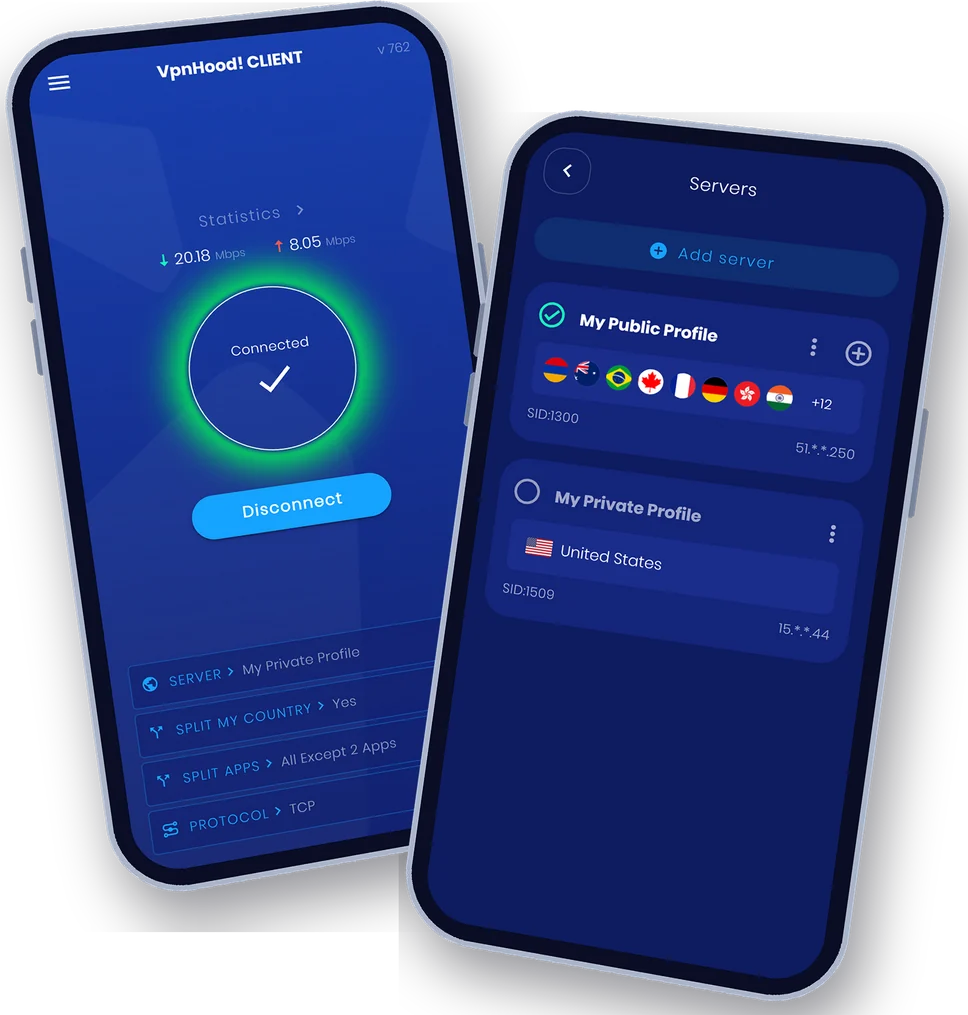
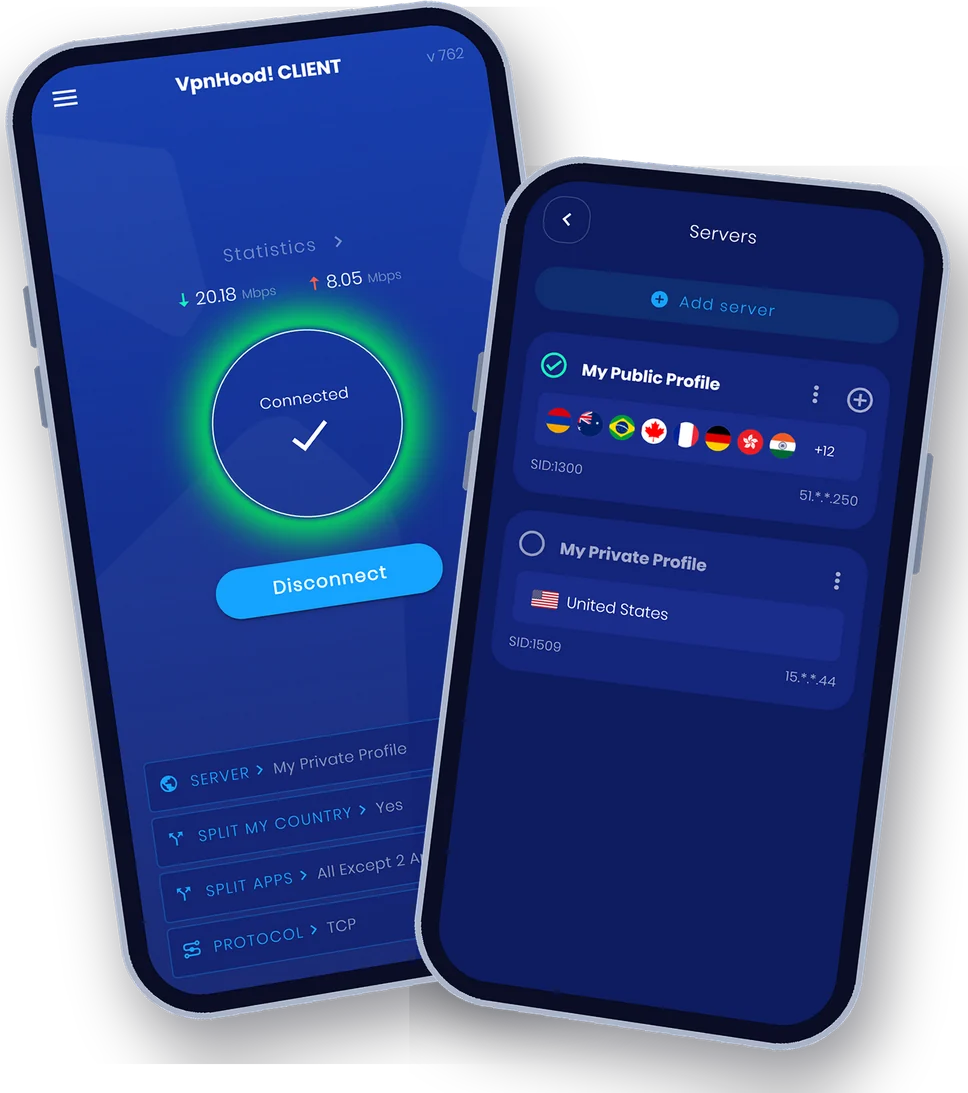
refactor: update Open Graph and hreflang settings, improve localization metadata

Changed region(s): [[0.0, 0.0, 0.9917, 1.0]]

diff --git a/_includes/header.html b/_includes/header.html
@@ -74,11 +74,25 @@
     {% comment %} Per-language pages are generated into site.pages at build time
          by _plugins/i18n-pages.rb (one clone per _data/i18n/<code>/ folder). {% endcomment %}
     {% assign vh_lang_pages = site.pages %}
-    {% capture vh_alternates %}{% for vh_p in vh_lang_pages %}{% if vh_p.lang %}{% capture vh_p_prefix %}/{{ vh_p.lang }}{% endcapture %}{% assign vh_p_base = vh_p.url | remove_first: vh_p_prefix %}{% if vh_p_base == vh_base_url %}
+    {% assign vh_locales = '' %}
+    {% capture vh_alternates %}{% for vh_p in vh_lang_pages %}{% if vh_p.lang %}{% capture vh_p_prefix %}/{{ vh_p.lang }}{% endcapture %}{% assign vh_p_base = vh_p.url | remove_first: vh_p_prefix %}{% if vh_p_base == vh_base_url %}{% assign vh_locales = vh_locales | append: vh_p.lang | append: ',' %}
     <link rel="alternate" hreflang="{{ vh_p.lang }}" href="{{ vh_p.url | absolute_url }}" />{% endif %}{% endif %}{% endfor %}{% endcapture %}
     {% if vh_alternates != "" %}
     <link rel="alternate" hreflang="en" href="{{ vh_base_url | absolute_url }}" />{{ vh_alternates }}
     <link rel="alternate" hreflang="x-default" href="{{ vh_base_url | absolute_url }}" />
+
+    {% comment %} og:locale:alternate — the Open Graph counterpart of the hreflang set:
+         it tells social/link-preview crawlers that this page exists in other languages.
+         seo-tag emits og:locale for THIS page only and has no notion of siblings, so the
+         alternates are emitted here (og:locale itself is still seo-tag's — never duplicate
+         it). Values mirror what seo-tag emits per page — the bare page.lang for a
+         generated page, site.lang for the English source — so the document is internally
+         consistent. The current page's own locale is excluded, per the OG spec. {% endcomment %}
+    {%- assign vh_site_locale = site.lang | default: 'en_US' | replace: '-', '_' -%}
+    {%- assign vh_this_locale = page.lang | default: vh_site_locale -%}
+    {%- assign vh_locale_list = vh_locales | append: vh_site_locale | split: ',' -%}
+    {%- for vh_loc in vh_locale_list -%}{%- unless vh_loc == vh_this_locale %}
+    <meta property="og:locale:alternate" content="{{ vh_loc }}" />{% endunless %}{%- endfor %}
     {% endif %}
 
     <!-- Organization structured data (seo-tag already emits the WebSite entity) -->

diff --git a/vpnhood-client/index.html b/vpnhood-client/index.html
@@ -77,7 +77,7 @@ nav_active: self-hosted
         </ul>
     </div>
     <div class="col-lg-6 text-center" data-aos="fade-up" data-aos-delay="200">
-        <img src="/assets/images/vpnhood-client/client-app-phones.webp" alt="{{ t.phones_alt }}" width="968" height="1015" loading="lazy" class="img-fluid mx-auto">
+        <img src="/assets/images/vpnhood-client/client-app-phones.webp" alt="{{ t.phones_alt }}" width="968" height="1093" loading="lazy" class="img-fluid mx-auto">
     </div>
 </div>
 <div class="text-center mt-5"><a class="vh-btn vh-btn-primary blue-bg" href="{{ vh_base }}/vpnhood-client/download">{{ t.download_client }} <svg class="vh-rtl-mirror" aria-hidden="true" xmlns="http://www.w3.org/2000/svg" width="20" height="20" viewBox="0 0 24 24"> <g fill="none"> <path fill="currentColor" d="M4 11.25a.75.75 0 0 0 0 1.5zm0 1.5h16v-1.5H4z" opacity="0.5"></path> <path stroke="currentColor" stroke-linecap="round" stroke-linejoin="round" stroke-width="1.5" d="m14 6l6 6l-6 6"></path> </g> </svg> </a></div>     </div>

diff --git a/tools/make-client-phones.py b/tools/make-client-phones.py
@@ -76,15 +76,16 @@ def shadow_of(img, blur, opacity):
 
 
 # build the two phones
-a = make_phone("1_en-US.png", 330)             # connected home screen
-b = make_phone("2_en-US.png", 330)             # servers screen (public/private profiles)
-a = tilt(a, 0.020, +1).rotate(8, Image.BICUBIC, expand=True)
-b = tilt(b, 0.020, -1).rotate(-8, Image.BICUBIC, expand=True)
+a = make_phone("1_en-US.png", 340)             # connected home screen (front, nearer)
+b = make_phone("2_en-US.png", 298)             # servers screen (set back, so smaller)
+a = tilt(a, 0.014, +1).rotate(8, Image.BICUBIC, expand=True)
+b = tilt(b, 0.014, -1).rotate(-7, Image.BICUBIC, expand=True)
 
-W, H = a.size[0] + b.size[0] - int(150 * S), max(a.size[1], b.size[1]) + 90 * S
+OVERLAP, DROP = int(185 * S), 118 * S
+W, H = a.size[0] + b.size[0] - OVERLAP, max(a.size[1], b.size[1]) + DROP
 canvas = Image.new("RGBA", (W, H), (0, 0, 0, 0))
 ax, ay = 0, 0
-bx, by = a.size[0] - int(150 * S), 90 * S
+bx, by = a.size[0] - OVERLAP, DROP
 for img, (x, y) in [(a, (ax, ay)), (b, (bx, by))]:
     canvas.alpha_composite(shadow_of(img, 22 * S, 110), (x + 10 * S, y + 22 * S))
 canvas.alpha_composite(a, (ax, ay))

diff --git a/.docs/seo-and-semantic-html.md b/.docs/seo-and-semantic-html.md
@@ -296,6 +296,15 @@ self-deactivating when no translated pages exist.
   (the jekyll-seo-tag default). Never canonicalize a translation to its English source —
   that deindexes the translation.
 - **`og:locale` follows `page.lang`** via jekyll-seo-tag automatically; never hand-write it.
+- **`og:locale:alternate` is emitted alongside the hreflang set** — the Open Graph
+  counterpart, telling social/link-preview crawlers the page exists in other languages.
+  seo-tag only knows the *current* page's locale, so `header.html` emits the alternates
+  from the same `site.pages` scan that builds the hreflang links (no second scan). Rules:
+  one tag per *other* available locale (**the page's own locale is excluded**, per the OG
+  spec), values mirroring what seo-tag emits per page (the bare `page.lang` for a
+  generated page, `site.lang` for the source page) so the document stays internally
+  consistent. Like hreflang, it is emitted **only** when the page actually has
+  translations — an untranslated page (e.g. legal) keeps its lone `og:locale`.
 - **No `inLanguage` microdata in page bodies.** Language is declared by `<html lang>` and
   hreflang only. Legacy body-level `<meta itemprop="inLanguage">` tags were removed
   site-wide: they get copied verbatim into translations, where they lie.
